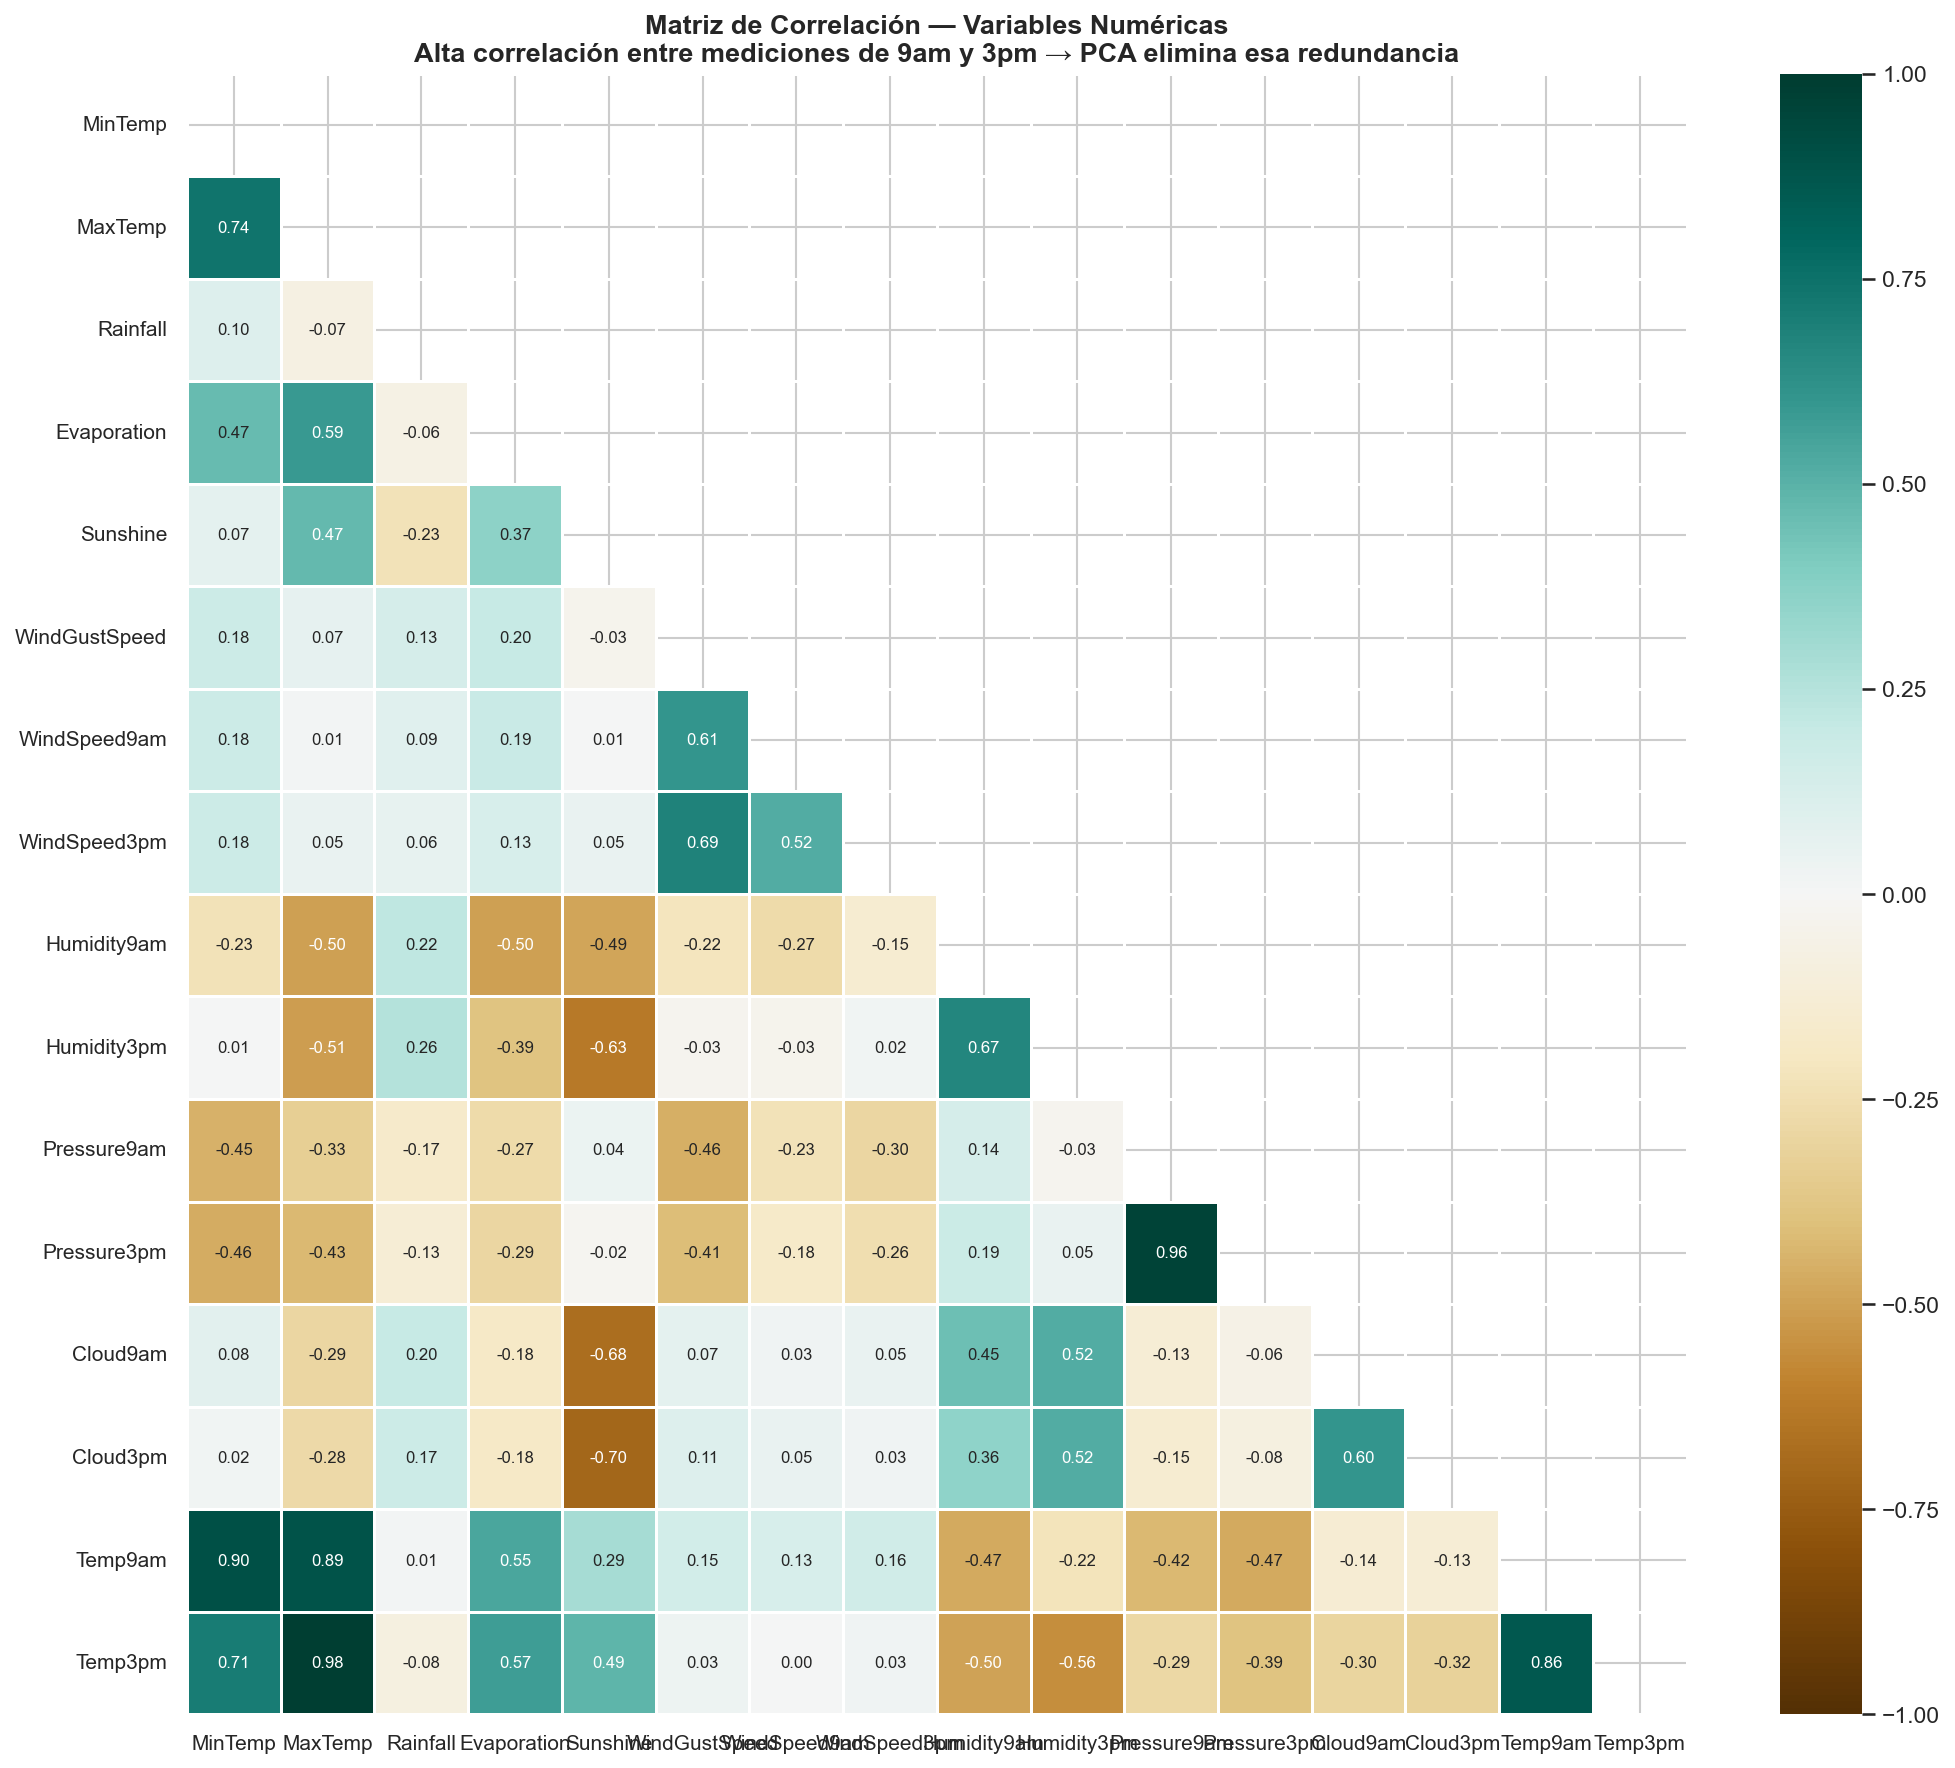
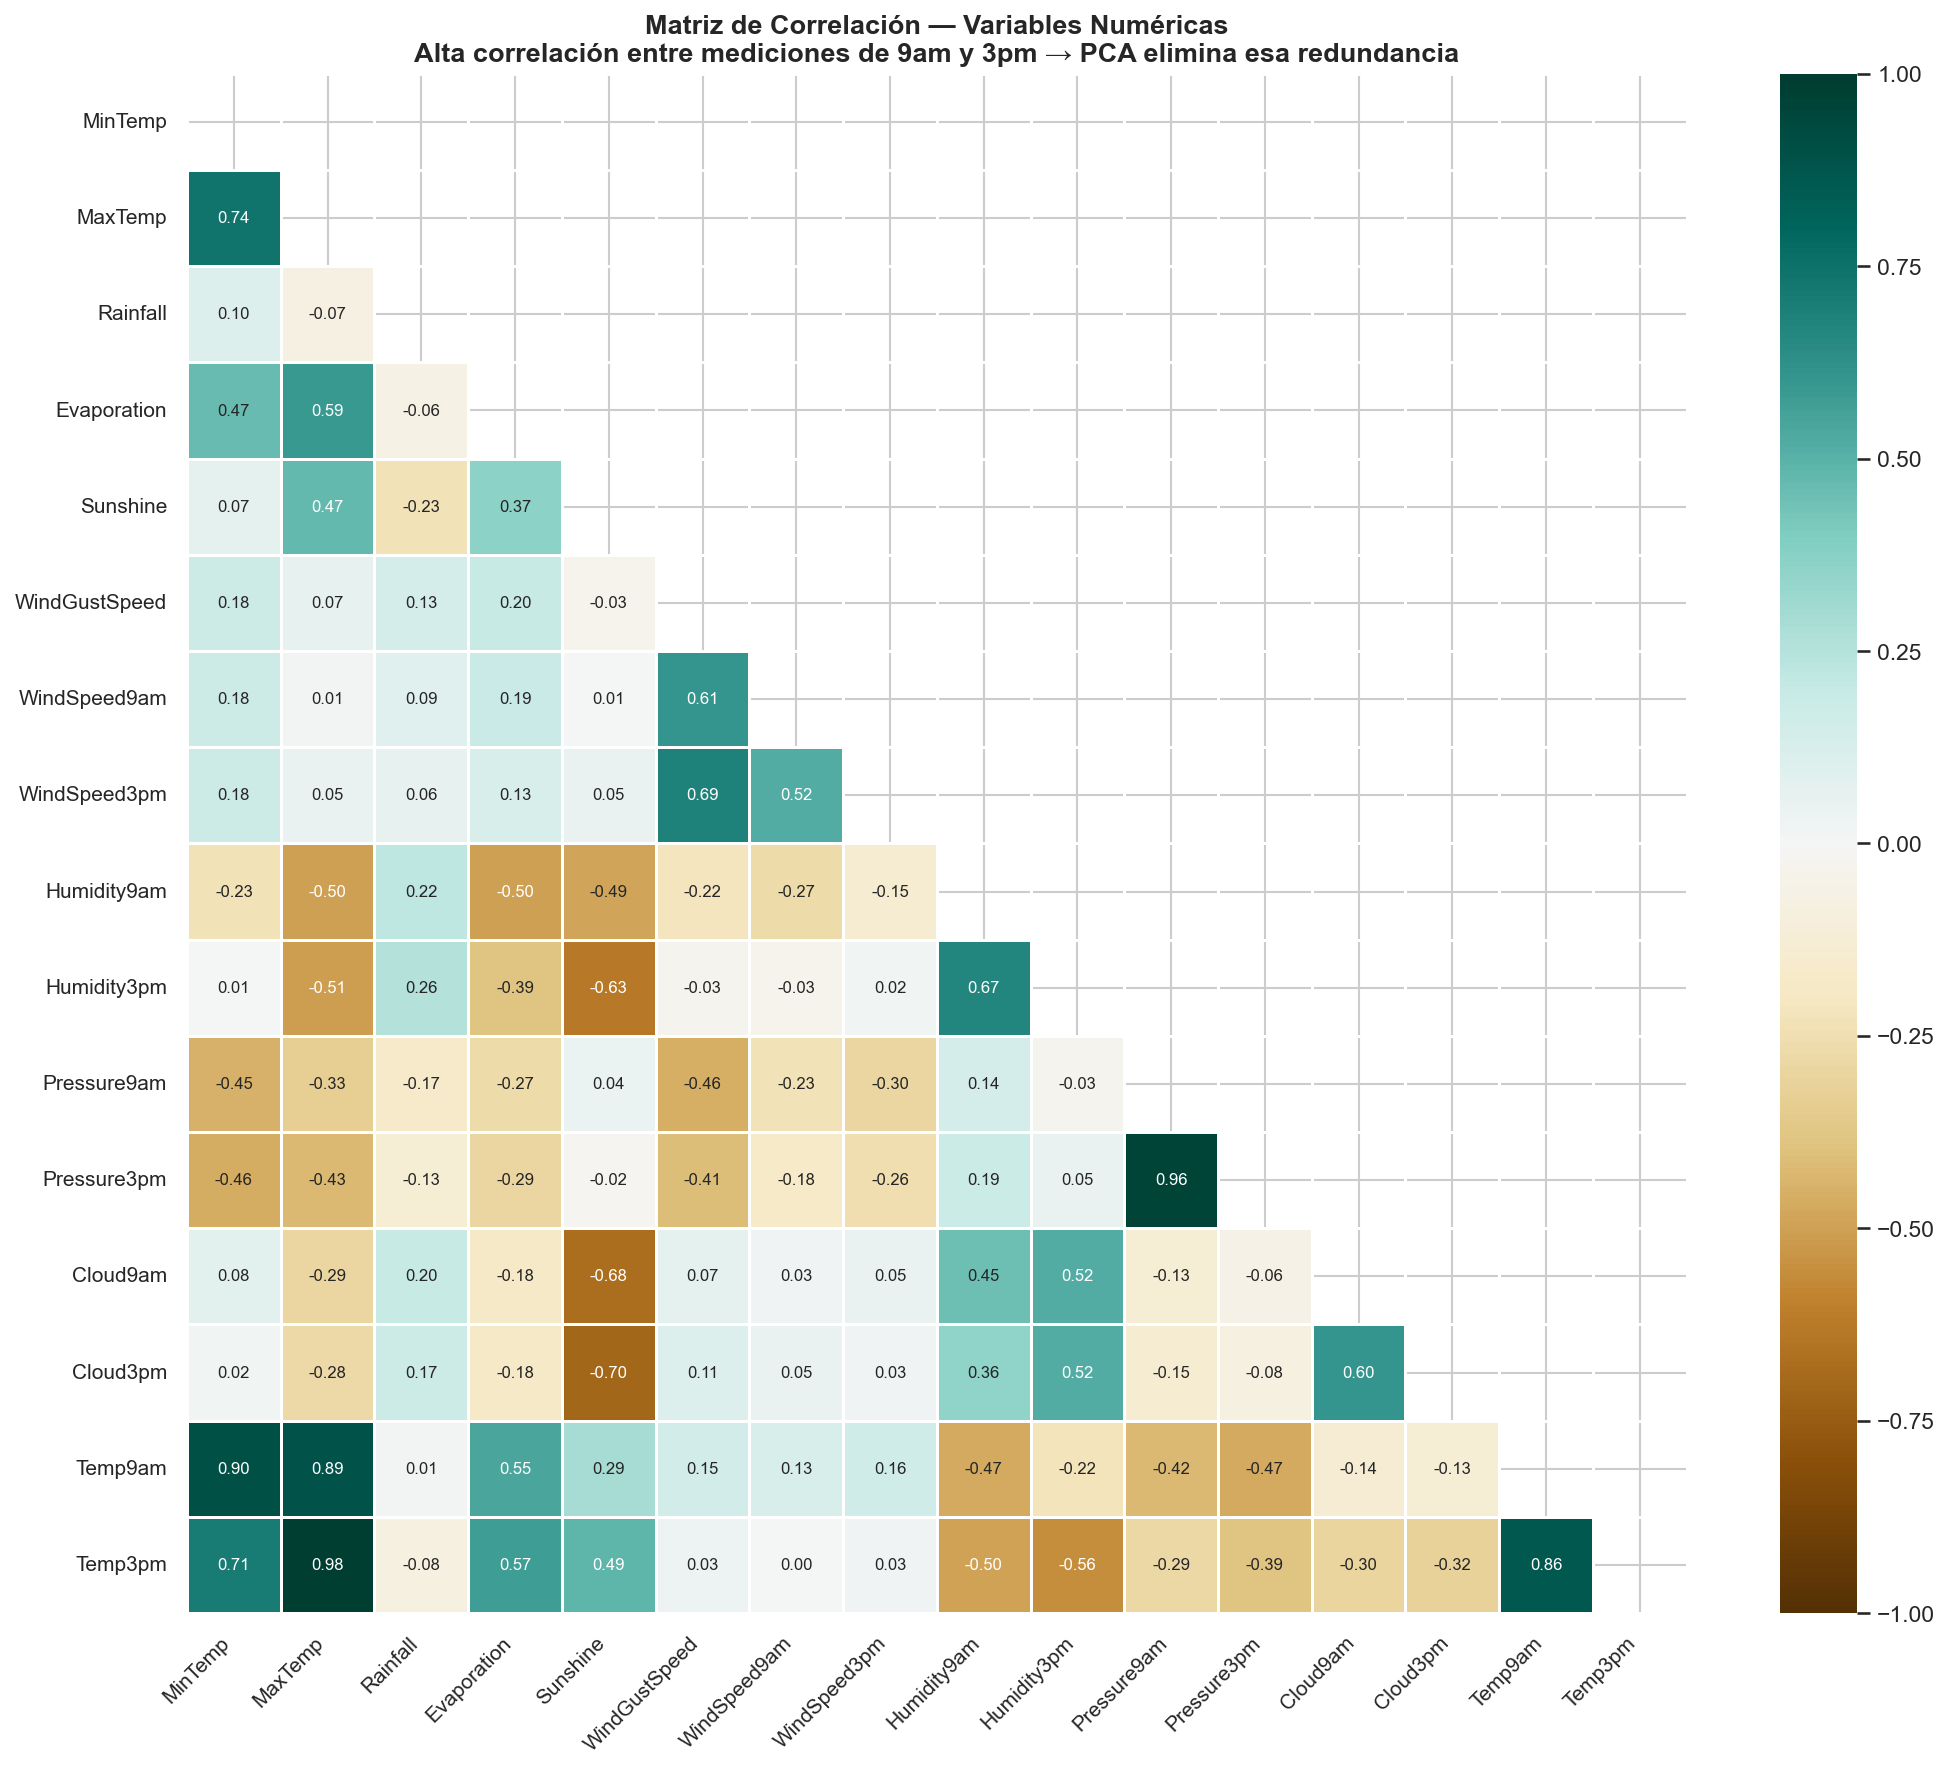
fix(app): restaurar mapa Leaflet con components.html; subir modelos regenerados

diff --git a/app/app.py b/app/app.py
@@ -7,6 +7,7 @@ import sys, os
 sys.path.insert(0, os.path.join(os.path.dirname(__file__), ".."))
 
 import streamlit as st
+import streamlit.components.v1 as components
 import joblib, requests
 import pandas as pd
 import numpy as np
@@ -675,7 +676,7 @@ if "reales" in mode:
         col_data, col_map = st.columns([1.1, 1], gap="medium")
 
         with col_map:
-            st.html(render_map(selected, height=290))
+            components.html(render_map(selected, height=290), height=290)
 
         with col_data:
             with st.spinner(f"Consultando Open-Meteo para {selected}…"):
@@ -713,7 +714,7 @@ if "reales" in mode:
                 inputs = {k: v for k, v in api_data.items() if not k.startswith("_")}
             else:
                 st.warning("No se pudo conectar con Open-Meteo. Cambia a modo manual.")
-                st.html(render_map(selected, height=290))
+                components.html(render_map(selected, height=290), height=290)
 
 # ── MODO MANUAL ───────────────────────────────────────────────────────────────
 elif "manual" in mode: